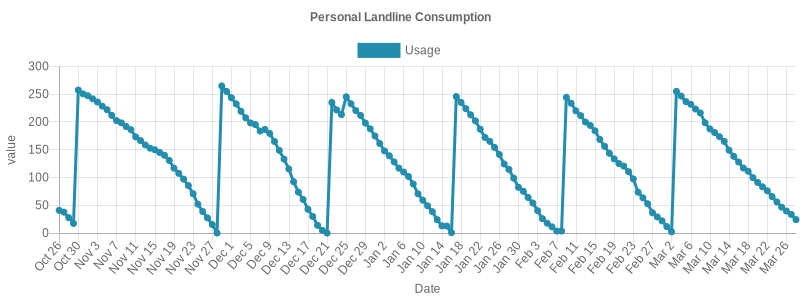
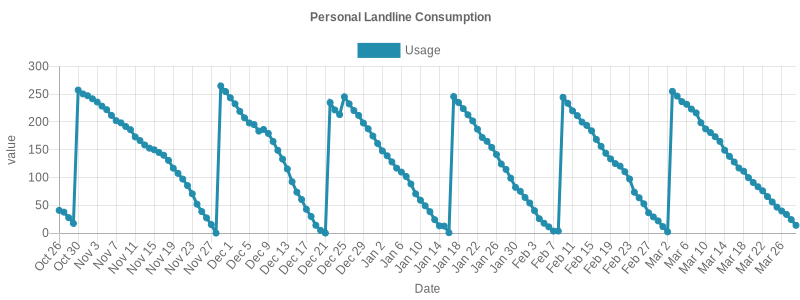
update logs

Changed region(s): [[0.0938, 0.24, 1.0, 0.93], [0.0938, 0.33, 0.125, 0.36]]

diff --git a/quota-logs/README.md b/quota-logs/README.md
@@ -153,3 +153,4 @@
 ## Tue Mar 26 2024 00:35:37 GMT+0200|39.74/250
 ## Wed Mar 27 2024 00:34:51 GMT+0200|33.6/250
 ## Thu Mar 28 2024 00:34:30 GMT+0200|24.25/250
+## Fri Mar 29 2024 00:35:47 GMT+0200|14.01/250
